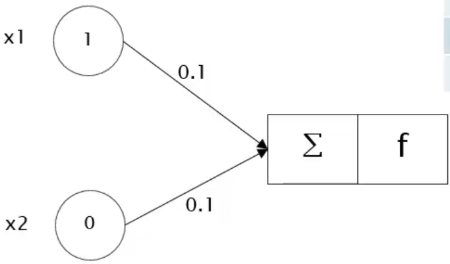
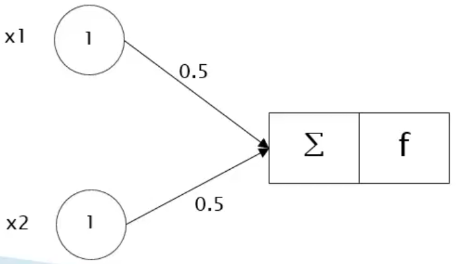
Aula 97: Ajuste dos pesos II

diff --git a/redes-neutrais-artificiais/aula-96/notes.md b/redes-neutrais-artificiais/aula-96/notes.md
@@ -131,6 +131,6 @@ Vamos corrigir os pesos pegando como base no registro da 4º linha, pois foi ond
   peso(n + 1) = 0 + (0.1 \cdot 1 \cdot 1) = 0.1
   $$
 
-Após os ajuste de pesos a fim de reduzir ao máximo os erros, temos o seguinte conjunto de pesos para a rede neural:
+Após realizar os ajuste de pesos a fim de reduzir ao máximo os erros, temos o seguinte conjunto de pesos final para a rede neural:
 
 ![](./assets/ajuste-de-peso-final.png)
